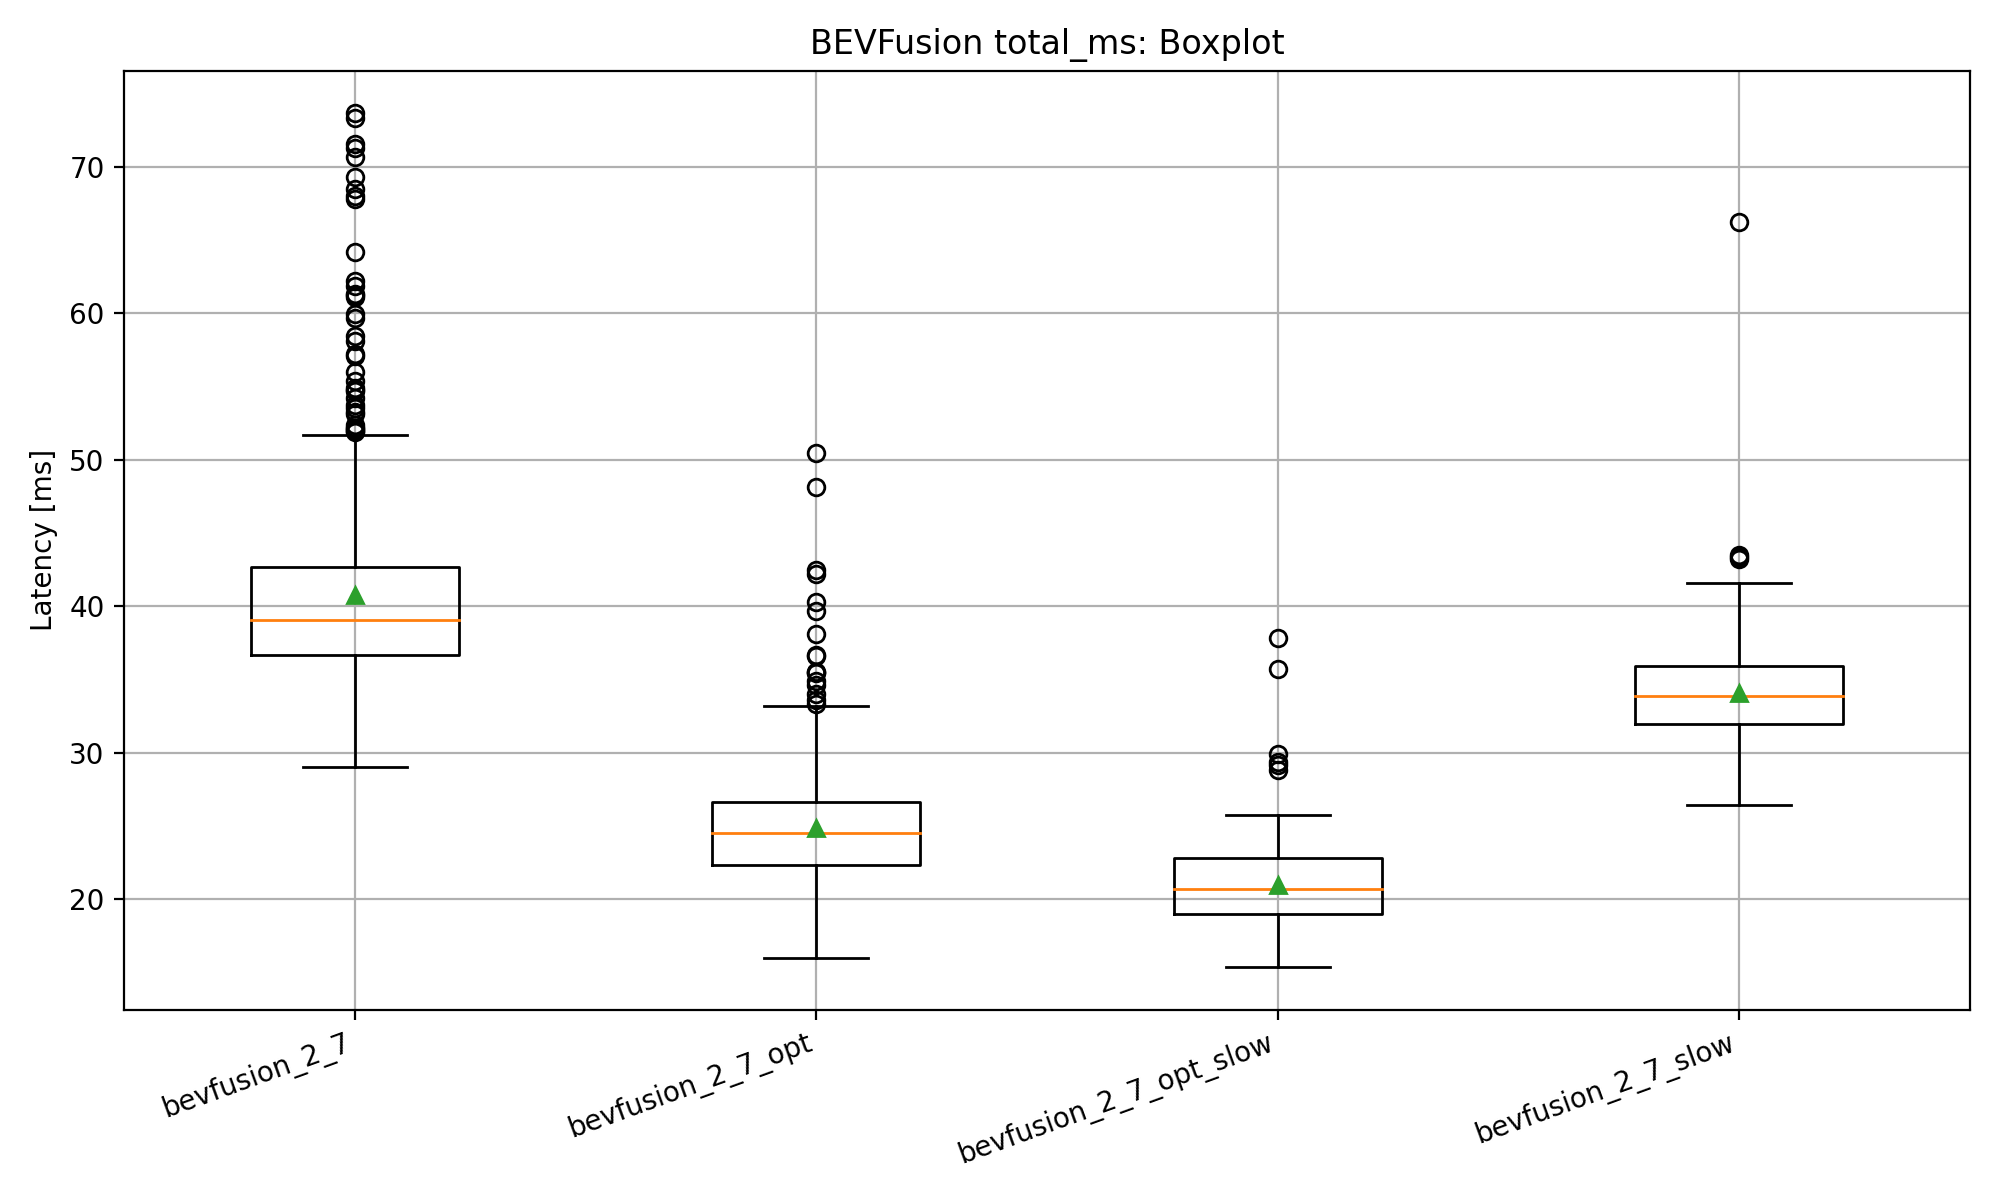
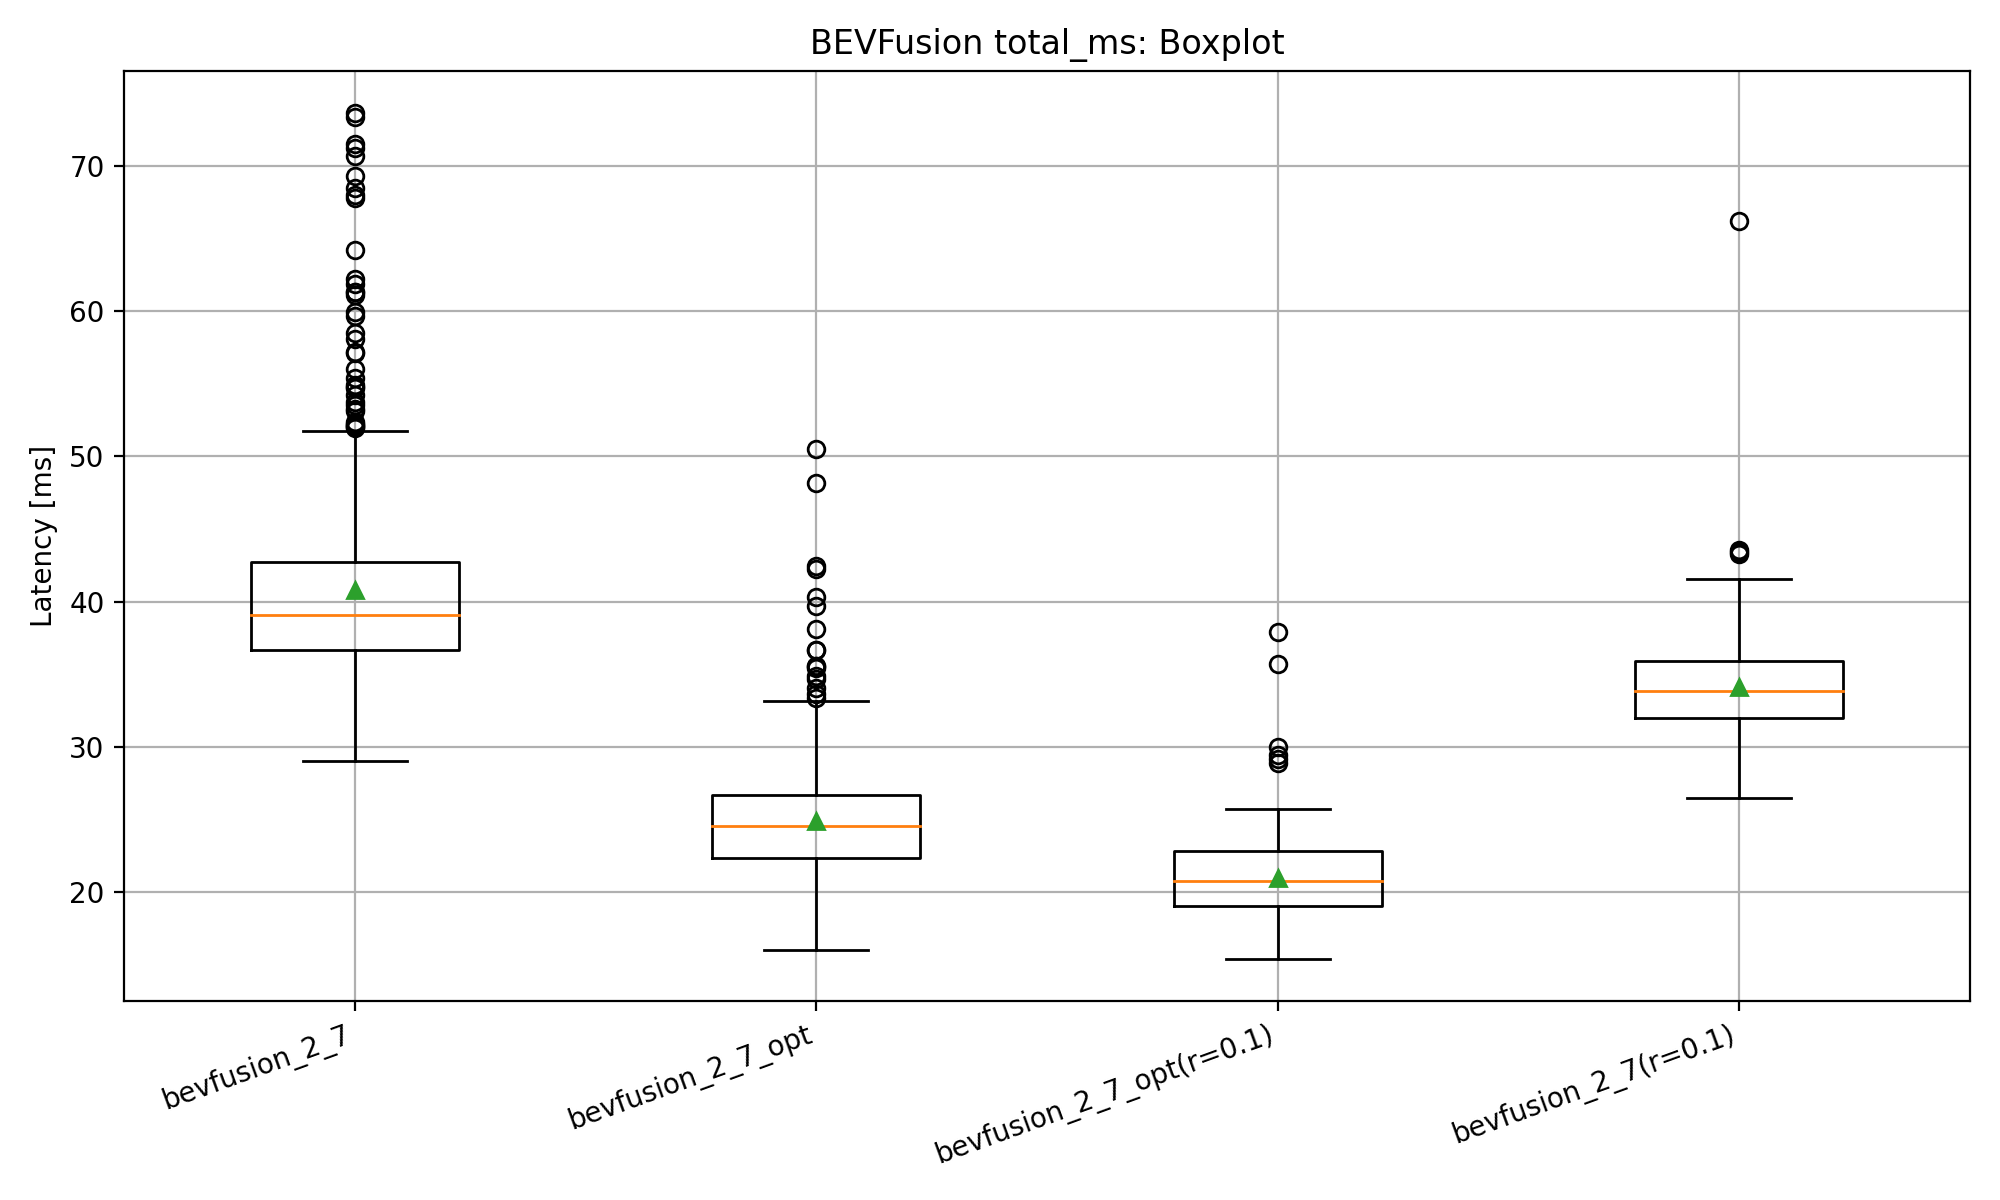
chore: add bevfusion bag analysis

diff --git a/bevfusion_rosbag_analysis.py b/bevfusion_rosbag_analysis.py
@@ -188,7 +188,7 @@ def summarize_latency(metric: str, bag_name: str, df: pd.DataFrame) -> Dict[str,
 def plot_time_series(metric: str, dataframes: Dict[str, pd.DataFrame], output_path: Path) -> None:
     plt.figure(figsize=(12, 6))
     for bag_name, df in dataframes.items():
-        plt.plot(df["sample_index"], df["latency_ms"], linewidth=1.2, label=bag_name)
+        plt.plot(df["sample_index"], df["latency_ms"], linewidth=1.2, label=format_bag_label(bag_name))
     plt.xlabel("Message count index")
     plt.ylabel("Latency [ms]")
     plt.title(f"BEVFusion {metric}: Time Series by Message Count")
@@ -224,7 +224,7 @@ def plot_time_series_small_multiples(metric: str, dataframes: Dict[str, pd.DataF
         trend = view["latency_ms"].rolling(window=window, min_periods=1).mean()
 
         ax.plot(view["sample_index"], trend, linewidth=2.0, color="tab:blue")
-        ax.set_title(bag_name)
+        ax.set_title(format_bag_label(bag_name))
         ax.set_xlabel("Message count index")
         ax.set_ylabel("Latency [ms]")
         ax.grid(True, alpha=0.35)
@@ -249,7 +249,7 @@ def plot_time_series_trend_overlay(metric: str, dataframes: Dict[str, pd.DataFra
         window = max(5, len(view) // 30)
         trend = view["latency_ms"].rolling(window=window, min_periods=1).mean()
 
-        plt.plot(view["sample_index"], trend, linewidth=2.2, label=bag_name)
+        plt.plot(view["sample_index"], trend, linewidth=2.2, label=format_bag_label(bag_name))
 
     plt.xlabel("Message count index")
     plt.ylabel("Latency [ms]")
@@ -264,7 +264,7 @@ def plot_time_series_trend_overlay(metric: str, dataframes: Dict[str, pd.DataFra
 def plot_histogram(metric: str, dataframes: Dict[str, pd.DataFrame], output_path: Path) -> None:
     plt.figure(figsize=(10, 6))
     for bag_name, df in dataframes.items():
-        plt.hist(df["latency_ms"], bins=40, alpha=0.5, label=bag_name)
+        plt.hist(df["latency_ms"], bins=40, alpha=0.5, label=format_bag_label(bag_name))
     plt.xlabel("Latency [ms]")
     plt.ylabel("Count")
     plt.title(f"BEVFusion {metric}: Histogram")
@@ -277,9 +277,10 @@ def plot_histogram(metric: str, dataframes: Dict[str, pd.DataFrame], output_path
 
 def plot_boxplot(metric: str, dataframes: Dict[str, pd.DataFrame], output_path: Path) -> None:
     labels = list(dataframes.keys())
+    display_labels = [format_bag_label(name) for name in labels]
     values = [dataframes[name]["latency_ms"].to_numpy() for name in labels]
     plt.figure(figsize=(10, 6))
-    plt.boxplot(values, labels=labels, showmeans=True)
+    plt.boxplot(values, labels=display_labels, showmeans=True)
     plt.ylabel("Latency [ms]")
     plt.title(f"BEVFusion {metric}: Boxplot")
     plt.grid(True)
@@ -294,7 +295,7 @@ def plot_cdf(metric: str, dataframes: Dict[str, pd.DataFrame], output_path: Path
     for bag_name, df in dataframes.items():
         x = np.sort(df["latency_ms"].to_numpy())
         y = np.arange(1, len(x) + 1) / len(x)
-        plt.plot(x, y, linewidth=2, label=bag_name)
+        plt.plot(x, y, linewidth=2, label=format_bag_label(bag_name))
     plt.xlabel("Latency [ms]")
     plt.ylabel("CDF")
     plt.title(f"BEVFusion {metric}: CDF")
@@ -307,6 +308,10 @@ def plot_cdf(metric: str, dataframes: Dict[str, pd.DataFrame], output_path: Path
 
 def sanitize_filename(name: str) -> str:
     return name.replace("/", "_")
+
+
+def format_bag_label(bag_name: str) -> str:
+    return bag_name.replace("_slow", "(r=0.1)")
 
 
 def print_metric_summary(metric: str, summary_df: pd.DataFrame) -> None:

diff --git a/deployment/projects/bevfusion/config/deploy_config_split_fp16_opt_on_board.py b/deployment/projects/bevfusion/config/deploy_config_split_fp16_opt_on_board.py
@@ -64,8 +64,8 @@ devices = dict(
 
 export = dict(
     mode="none",
-    work_dir="work_dirs/bevfusion_deployment_2_7_fp16_opt_merged",
-    onnx_path=None,
+    work_dir="work_dirs/bevfusion_deployment_2_7_on_board",
+    onnx_path="work_dirs/bevfusion_deployment_2_7_on_board/onnx",
 )
 
 
@@ -74,8 +74,8 @@ export = dict(
 # - True : one ONNX + one engine + one backend pipeline
 bevfusion_merge = dict(
     enabled=True,
-    onnx_file="bevfusion_lidar.onnx",
-    engine_file="bevfusion_lidar.engine",
+    onnx_file="bevfusion_lidar_fp16_opt.onnx",
+    engine_file="bevfusion_lidar_fp16_opt.engine",
 )
 
 
@@ -175,7 +175,7 @@ tensorrt_config = dict(
 
 evaluation = dict(
     enabled=True,
-    num_samples=20,
+    num_samples=-1,
     num_warmup_samples=2,
     verbose=True,
     backends=dict(

diff --git a/autoware_ml/configs/detection3d/dataset/t4dataset/j6gen2_base.py b/autoware_ml/configs/detection3d/dataset/t4dataset/j6gen2_base.py
@@ -195,11 +195,11 @@ evaluator_metric_configs = dict(
     label_prefix="autoware",
     # bev minimum distance ranges for each range bucket, must be the same length as max_distance,
     # they will form bev distance ranges in [(min_distance[0], max_distance[0]), (min_distance[1], max_distance[1]), ...] when filtering
-    # min_distance=[0.0, 50.0, 90.0, 0.0],
+    min_distance=[0.0, 50.0, 90.0, 0.0],
     # bev maximum distance ranges for each range bucket, must be the same length as min_distance
-    # max_distance=[50.0, 90.0, 121.0, 121.0],
-    min_distance=[0.0],
-    max_distance=[121.0],
+    max_distance=[50.0, 90.0, 121.0, 121.0],
+    # min_distance=[0.0],
+    # max_distance=[121.0],
     min_point_numbers=0,
     matching_class_agnostic_fps=False,
 )
